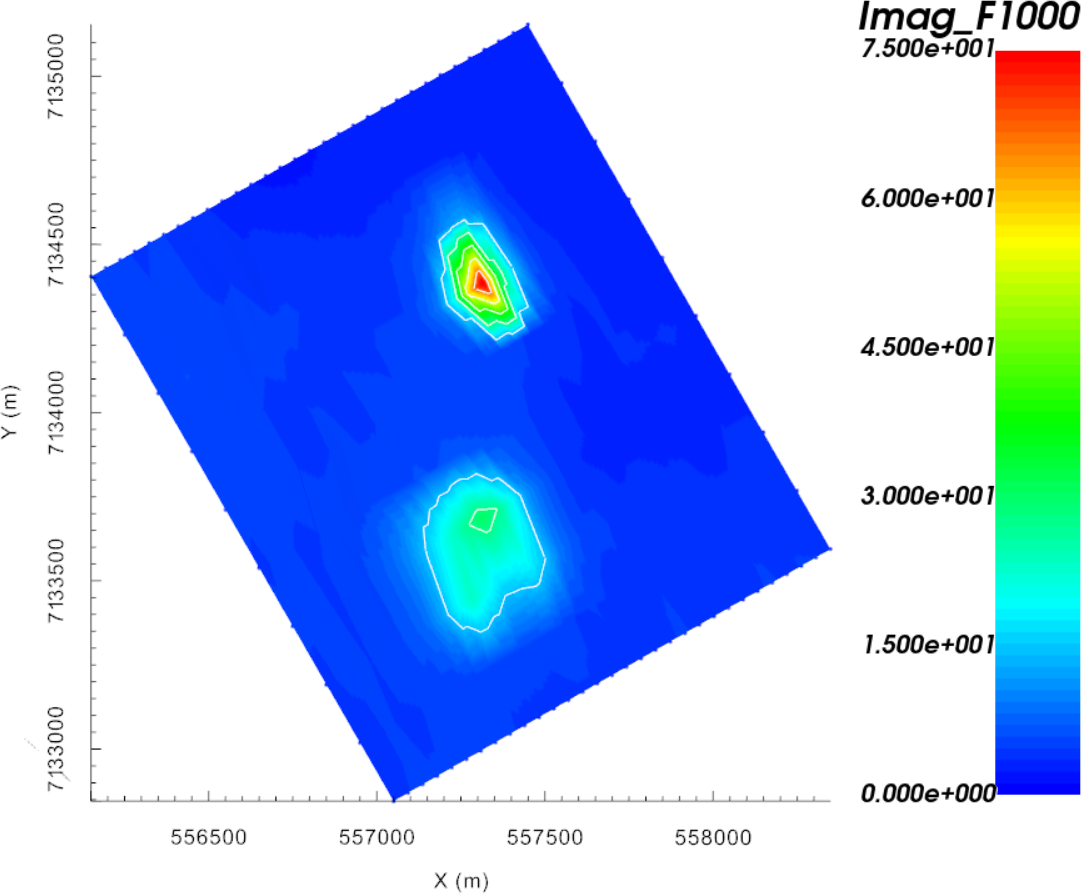
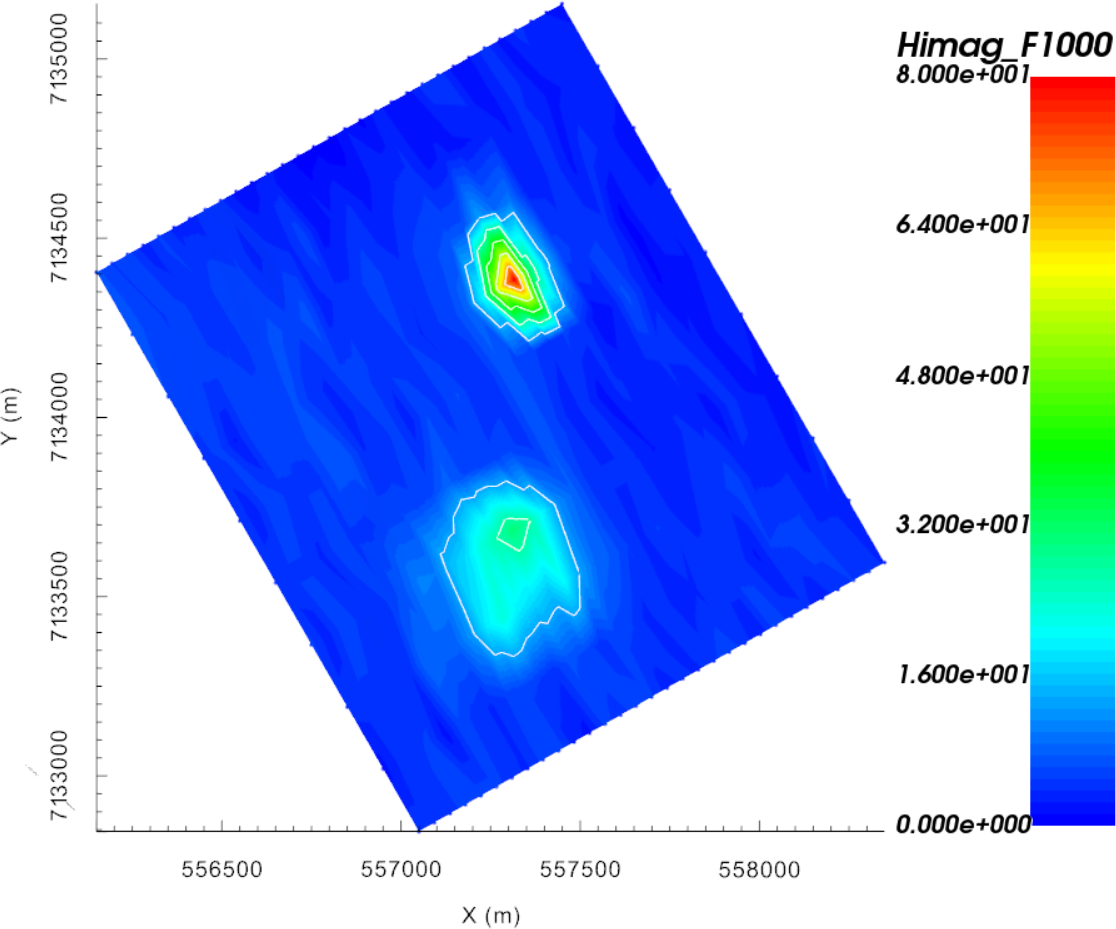
Update figures for model and data. Ready to merge

diff --git a/content/AtoZ/em1dfm/lateralInversion.rst b/content/AtoZ/em1dfm/lateralInversion.rst
@@ -87,11 +87,11 @@ Setup the inversion
         - Mode: Laterally constrained 3D
             - *Max distance* = 1000 m
             - *Number of stations* = 10
-            - *Smoothing parameter* = 100
+            - *Smoothing parameter* = 200
             - Other parameters left as default values
         - Use the *Fix Trade-off* mode
-            - *Initial beta* = 10
-            - *Cooling factor* = 2
+            - *Initial beta* = 1000
+            - *Cooling factor* = 5
             - Other parameters left as default values
     - Click *Apply*
 
@@ -130,15 +130,19 @@ The lateral constraints strategy comes with many advantages:
 The use of a global measure of data fit allows us to assess the convergence of
 the algorithm through the usual :ref:`convergence curve<convergence_curve>` window.
 
+Ideally we would like to test the hypothesis of a conductive overburden in 3D, as well as to impose bounds on the conductivity values.
+which we covered in the :ref:`next section<AtoZem1dfm_lateral>`.
+
 .. figure:: ./../../../images/AtoZ_fem1d/Inv_LC_convergence.png
-    :align: right
-    :figwidth: 45%
+    :align: center
+    :figwidth: 55%
 
     Convergence curves
 
+.. note:: After the fifth iteration, the global misfit begins to increase due
+          to the 3D smoothing of the recovered conductivity model. The user should consider re-running the inversion with
+          different smoothing parameters in order to test the stability of the solution.
 
-Ideally we would like to test the hypothesis of a conductive overburden in 3D, as well as to impose bounds on the conductivity values.
-which we covered in the :ref:`next section<AtoZem1dfm_lateral>`.
 
 .. _AtoZem1dfm_lateral_constr:
 
@@ -208,28 +212,35 @@ Run Inversion and Load Results
 Discussion
 ^^^^^^^^^^
 
+This final solution differs from the previous inversion such that:
+    - A sharp gradient is preserved along the base of the till layer
+    - The upper conductivities are more consistent :math:`\approx 10^4 \Omega \cdot m`
+    - The top of the kimberlite pipes is at the right depth
+
+The reader is invited to run multiple inversions with various smoothing
+parameters and data uncertainties to explore the range of solutions. Important
+to keep in mind that the true model is 3D, which cannot be fully accounted for
+by the 1D assumption. We did however manage to recover a first order estimate
+for the horizontal position of the kimberlite pipes and background
+conductivity structures.
+
+.. .. figure:: ./../../../images/AtoZ_fem1d/Inv_LC_constrained_EW.png
+..     :align: left
+..     :figwidth: 45%
+
+..     EW section through the constrained 1D inversion
+
 .. figure:: ./../../../images/AtoZ_fem1d/Inv_LC_constrained.png
-    :align: right
+    :align: left
     :figwidth: 45%
 
     Recovered 1D models with geological constraints
 
-This final solution differs from the previous inversion such that:
-    - A sharp gradient is preserved along the base of the till layer
-    - The upper conductivities are more consistent :math:`\approx 10^4 \Omega \cdot m`
-    - The top of the kimberlite pipes is at the right depth, and the compact shape of the pipes is better preserved
-
-.. figure:: ./../../../images/AtoZ_fem1d/Inv_LC_constrained_EW.png
-    :align: left
-    :figwidth: 45%
-
-    EW section through the constrained 1D inversion
-
-.. figure:: ./../../../images/AtoZ_fem1d/True_EW_section.png
+.. figure:: ./../../../images/AtoZ_fem1d/True_model.png
     :align: right
     :figwidth: 45%
 
-    EW section through the true 3D conductivity model
+    Sections through the true 3D conductivity model
 
 
 

diff --git a/content/AtoZ/em1dfm/staticInversion.rst b/content/AtoZ/em1dfm/staticInversion.rst
@@ -91,7 +91,7 @@ Setup the inversion
             - **Solver options:** leave as default
             - **Trade-off Mode:** select discrepancy principle (computes :math:`\beta` using a line search)
         - **Conductivity tab:**
-            - Set alpha_s = 0.25 and alpha_z = 1 (since layer thickness is 2 m)
+            - Set alpha_s = 0.04 and alpha_z = 1 (since layer thickness is 5 m)
         - **Susceptibility tab:**
             - Leave as default or customize (if being used)
         - Click apply and write all files
@@ -124,7 +124,7 @@ maps for each data components are show below.
 We note the following features
 
  - Two regions of higher conductivity showing as arc conductors.
- - Correlated residual on the in-phase misfit map over the conductors. Percentage values could be adjusted lower.
+ - Mostly uncorrelated residual misfit map.
 
 Note that all 1D models extend vertically to the top of the mesh, even though
 the observation stations were acquired at different height. It is therefore
